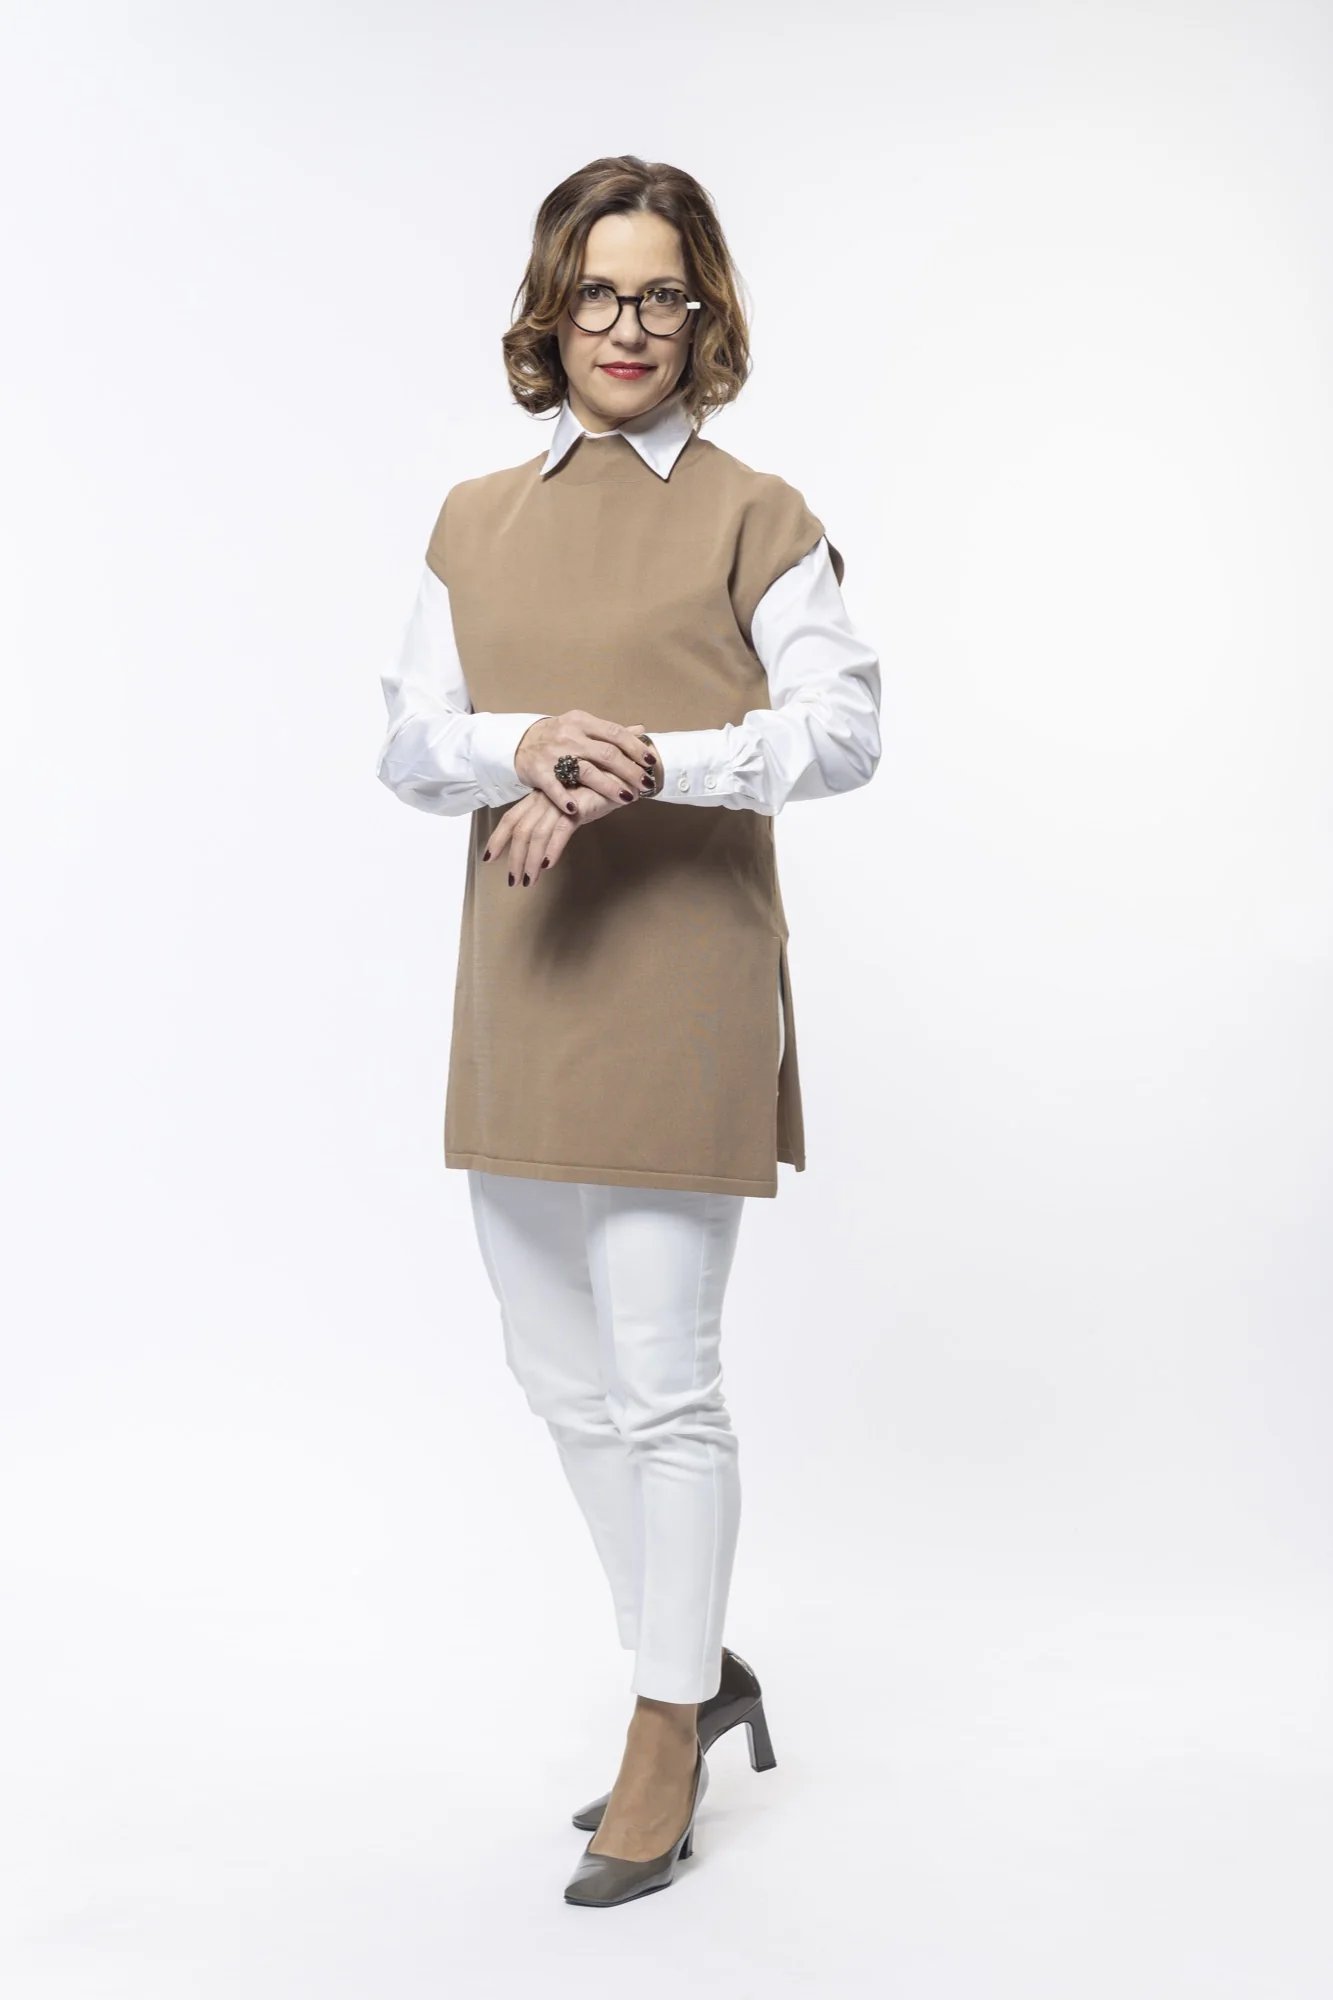
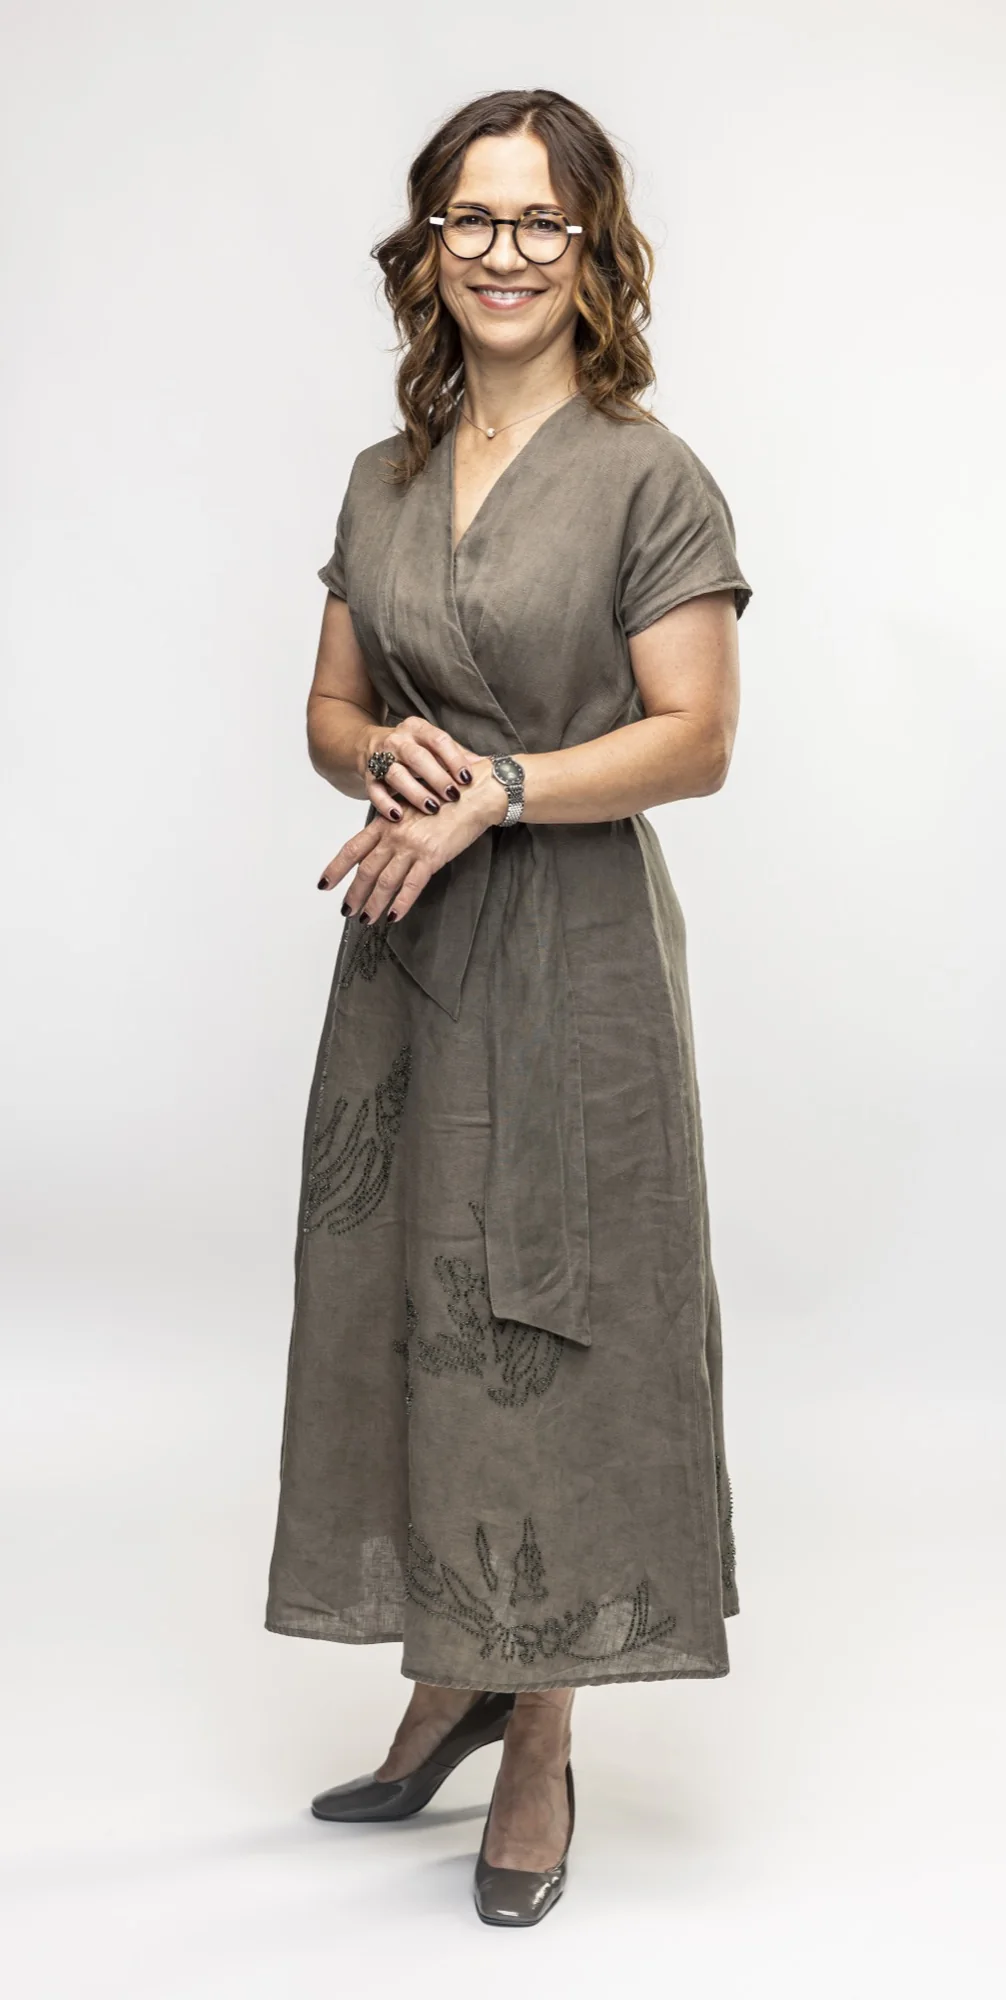
Portrét v sekci Můj příběh vyměněn za _JZ_8436-Edit
Obě fotky na stránce jsou teď z focení 2. 9. 2026 — stejné šedé pozadí
i stejné šaty jako v heru. Snímek je na výšku v poměru 1:2 (dosud 2:3),
sekce tím naroste ze 751 na 1101 px; fotka dosedá spodní hranou k textu,
prostor nad textem působí jako záměrný vzduch.

diff --git a/site/index.html b/site/index.html
@@ -193,7 +193,7 @@
     </div>
     <div class="col col--portret">
       <img class="portret" src="assets/img/katka-portret.webp" data-fallback="assets/img/placeholder-portret.svg"
-           alt="Kateřina Šalamonová" width="1333" height="2000">
+           alt="Kateřina Šalamonová" width="1006" height="2000">
     </div>
   </div>
 </section>

diff --git a/README.md b/README.md
@@ -102,23 +102,22 @@ Původní tři soubory z WordPressu se nedochovaly — jediná záloha s `upload
 je WPvivid z 13. 5. 2026 a fotky byly nahrané až po tomto datu.
 Nahrazené jsou fotkami z focení 29. 3. 2025 ze složky `salamonova/`:
 
-| soubor v `site/assets/img/` | zdroj | kde |
-|---|---|---|
-| `katka-hero.webp` | `20260902_portrety_katka/_JZ_8400-Edit.jpg` | pozadí hero sekce |
-| `katka-portret.webp` | `salamonova/press/…_JZ_5007-Edit.jpg` | sekce „Můj příběh“ |
+Obě jsou z focení **2. 9. 2026** (`20260902_portrety_katka/`), takže mají
+stejné šedé studiové pozadí i stejné olivové šaty:
 
-Převedeno přes `cwebp` (hero 2400 px šířky / q82 → 163 kB,
-portrét 2000 px výšky / q84 → 42 kB).
+| soubor v `site/assets/img/` | zdroj | rozměr | kde |
+|---|---|---|---|
+| `katka-hero.webp` | `_JZ_8400-Edit.jpg` | 2400 × 1600, 163 kB | pozadí hero sekce |
+| `katka-portret.webp` | `_JZ_8436-Edit.jpg` | 1006 × 2000, 73 kB | sekce „Můj příběh“ |
 
-Pozor: hero je z focení 2. 9. 2026 (šedé pozadí, olivové šaty), portrét
-ještě z 29. 3. 2025 (bílé pozadí, camel top). Pokud má web působit jednotně,
-stojí za zvážení vzít obě fotky ze stejného focení.
+Převedeno přes `cwebp` (hero 2400 px šířky / q82, portrét 2000 px výšky / q84).
 
-Jiný výběr z focení? Ve složce `salamonova/press/` jsou čtyři fotky
-(`náhledy/` má dalších 51). Stačí převést a přepsat soubor stejného názvu:
+Jiný výběr? `20260902_portrety_katka/` má čtyři vybrané snímky a v `náhledy/`
+další desítky; starší focení je v `salamonova/`. Stačí převést a přepsat soubor
+stejného názvu — u portrétu pak srovnat `width`/`height` v `index.html`:
 
 ```bash
-sips -Z 2400 salamonova/press/JMENO.jpg --out /tmp/x.jpg
+sips -Z 2400 20260902_portrety_katka/JMENO.jpg --out /tmp/x.jpg
 cwebp -q 82 -m 6 /tmp/x.jpg -o site/assets/img/katka-hero.webp
 ```
 
